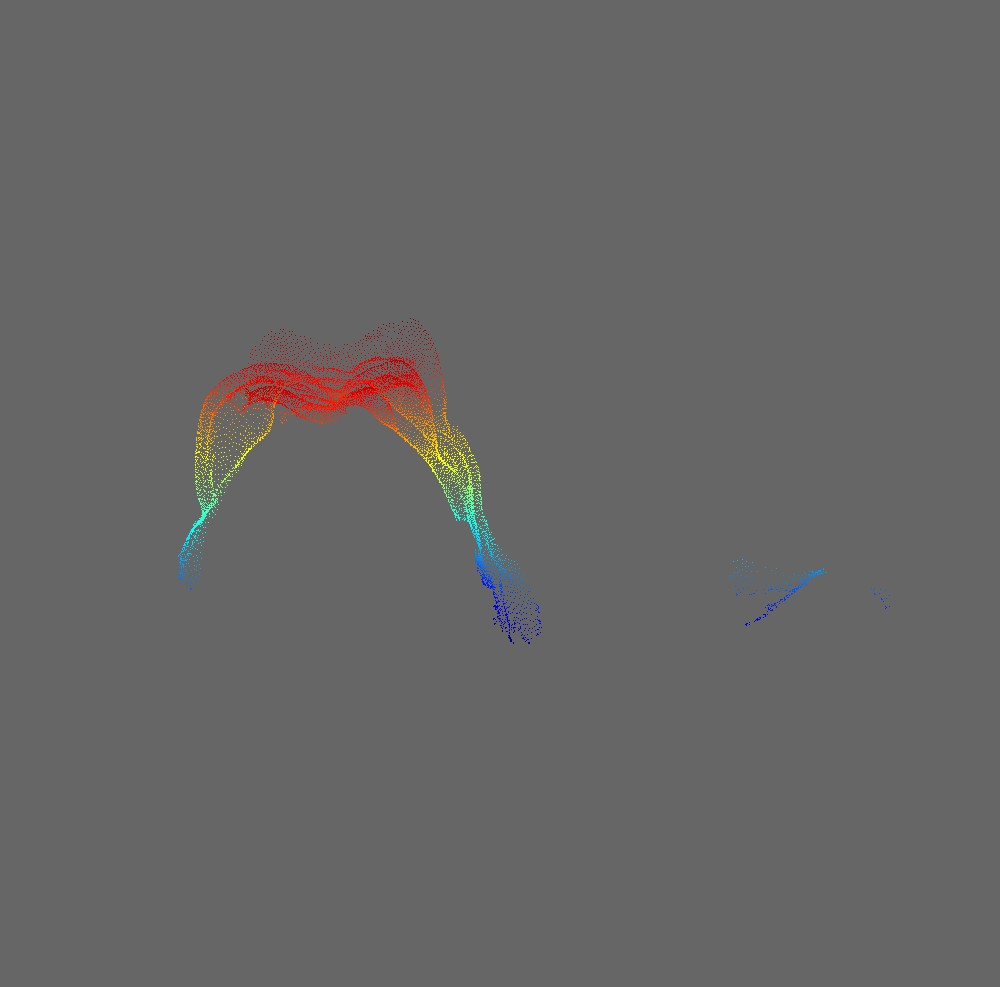
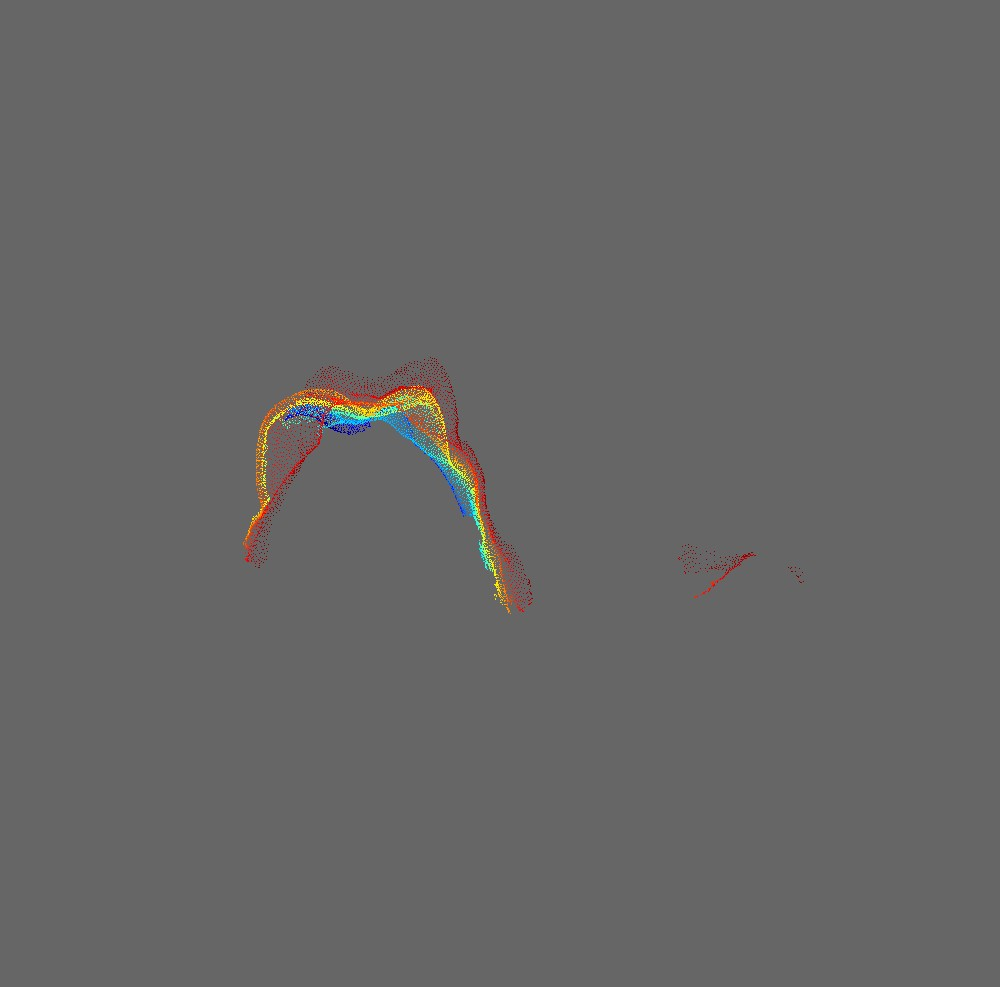
check

diff --git a/pclutils.py b/pclutils.py
@@ -62,7 +62,7 @@ def pcl2jpg(pcd, outfile, cam='s', zoom=ZOOM):
     opt.background_color = ([0.40,0.40,0.40])
     opt.point_size = 1.0
     #opt.point_color_option = o3d.visualization.PointColorOption.YCoordinate
-    opt.point_color_option = o3d.visualization.PointColorOption.Color
+    opt.point_color_option = o3d.visualization.PointColorOption.Normal
     if _DEBUG:
         vis.run()
     # if _DEBUG:
